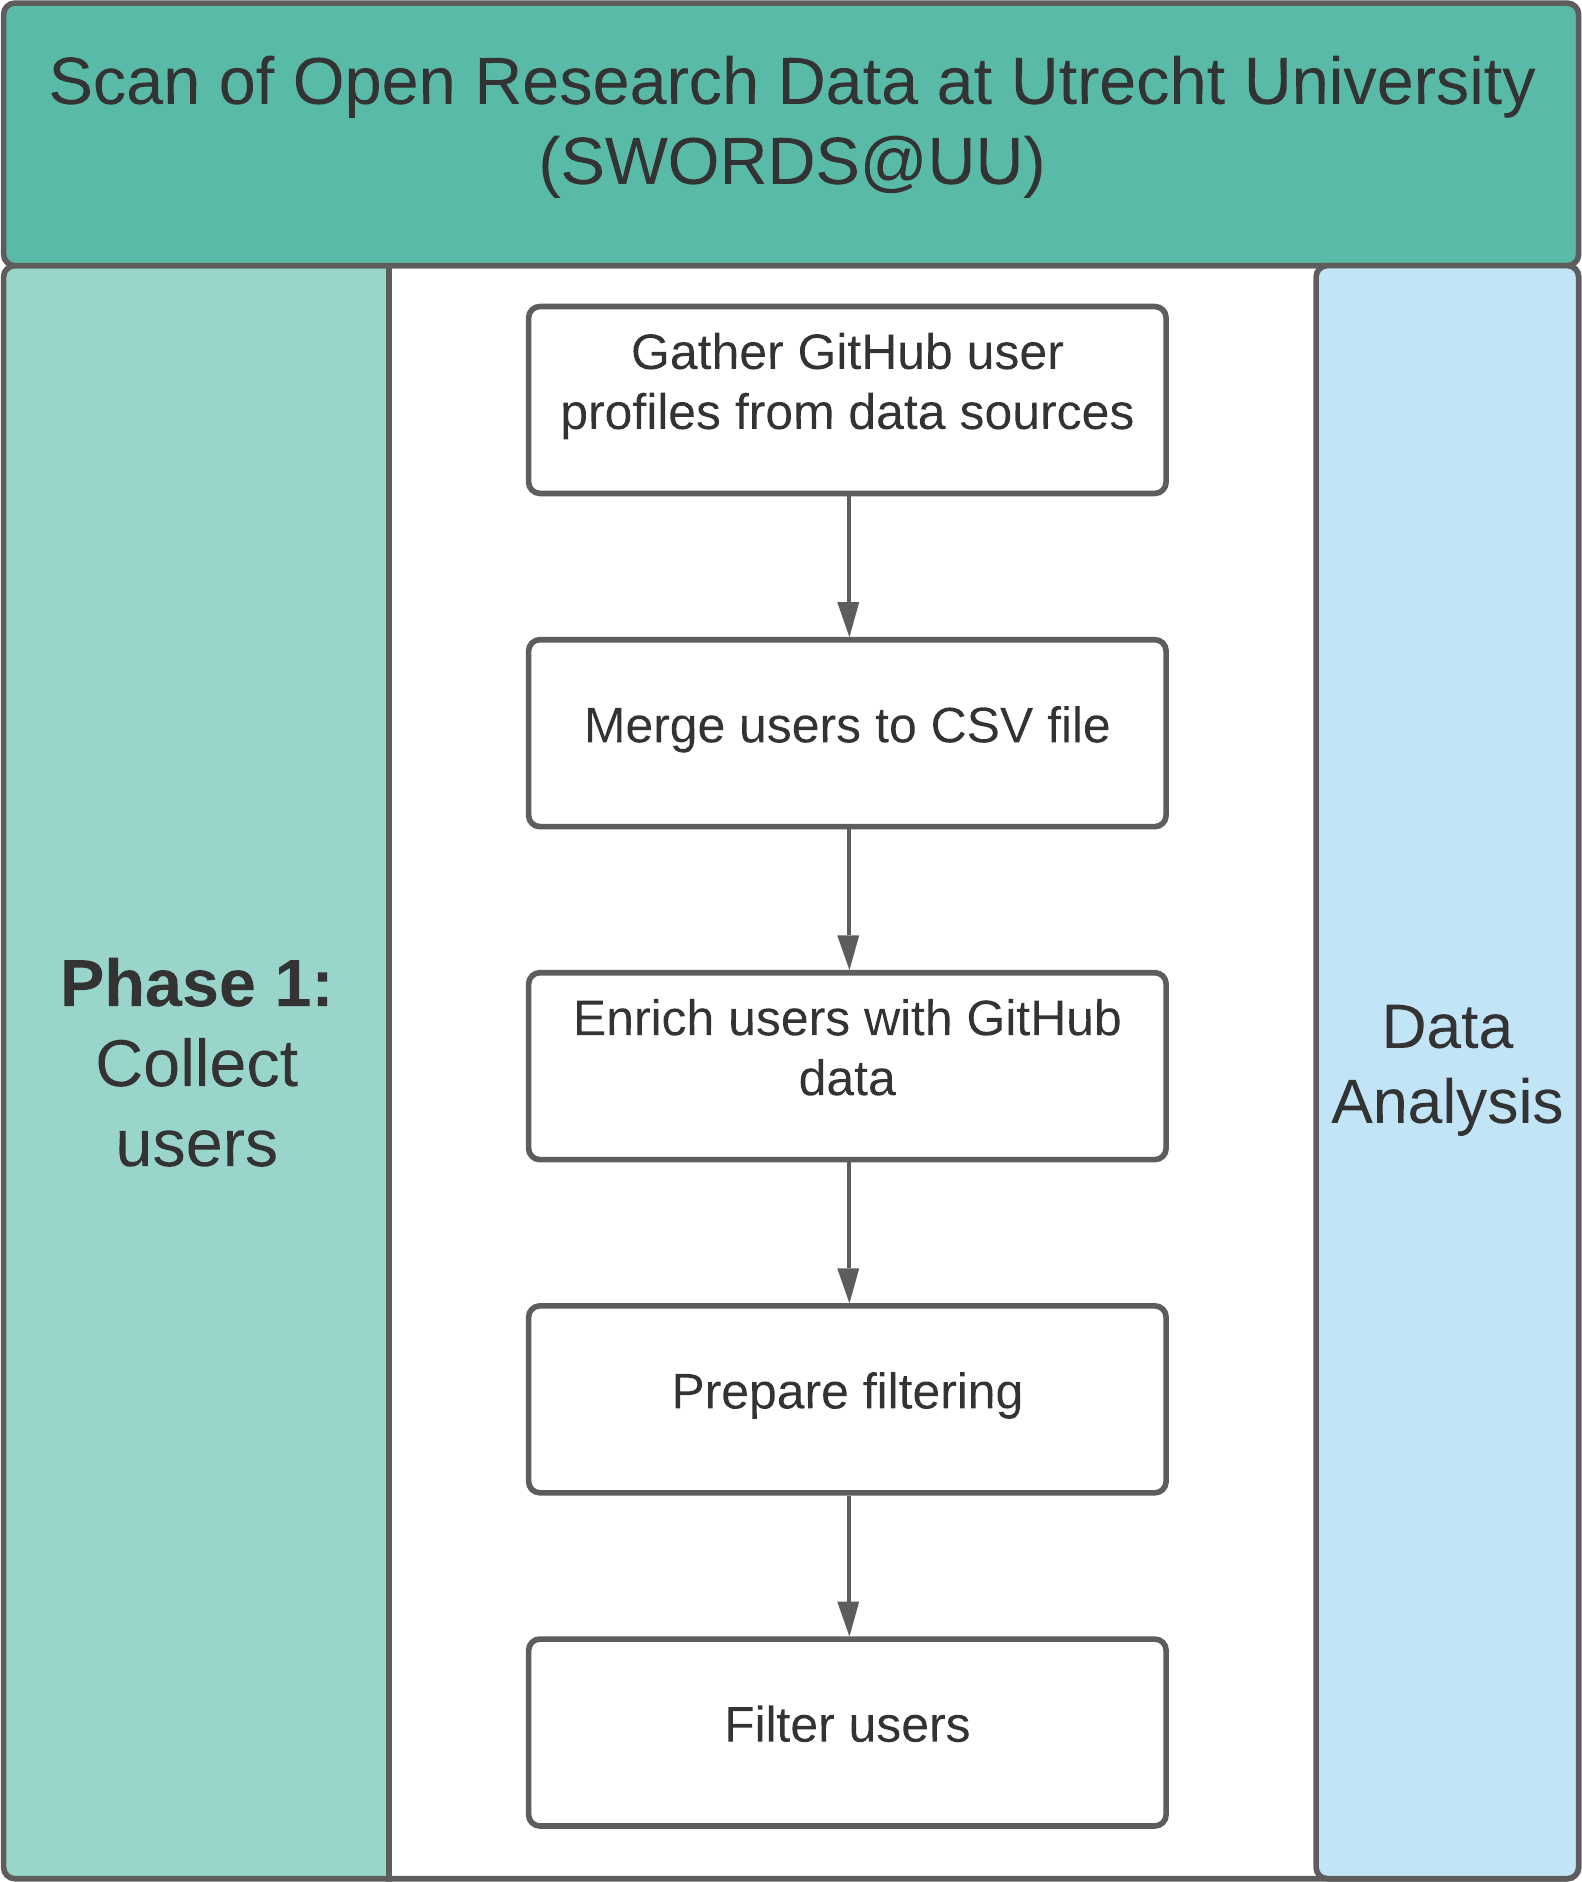
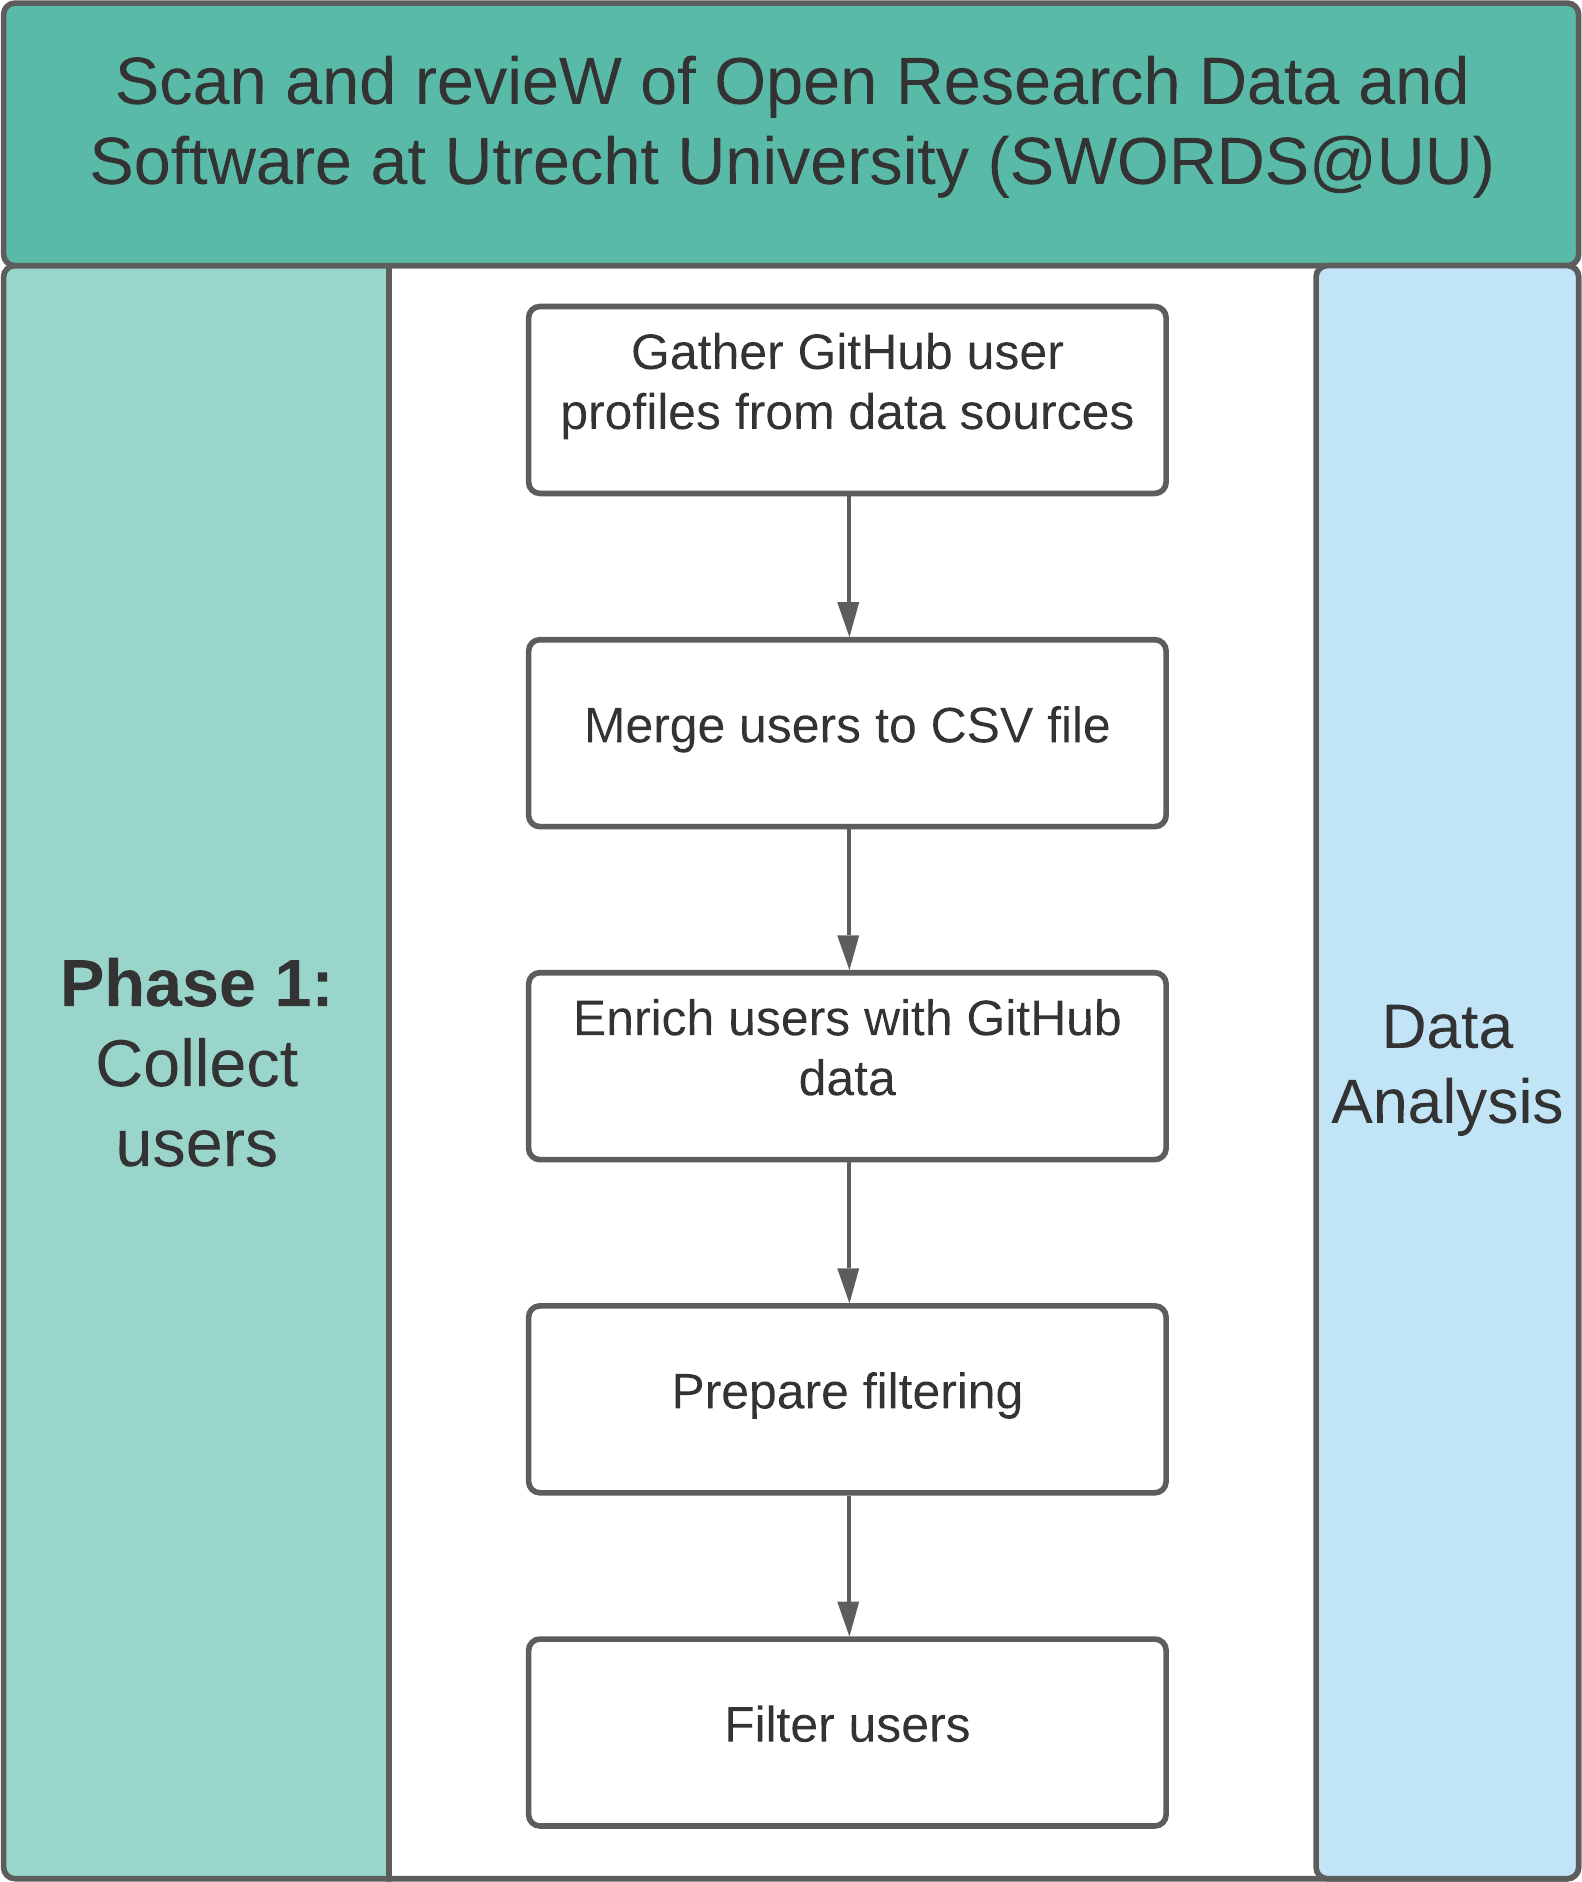
Update acronym

Changed region(s): [[0.031, 0.0308, 0.9602, 0.1233]]

diff --git a/README.md b/README.md
@@ -4,7 +4,7 @@
   - [Contact](#contact)
   - [Pipeline](#pipeline)
 
-This repository is the implementation for the Scan of Open Research Data at Utrecht University (SWORDS@UU). The project is split into 3 phases that correspond to the folder structure. The following hyperlinks lead to the detailed readme of each phase.
+This repository is the implementation for the Scan and revieW of Open Research Data and Software at Utrecht University (SWORDS@UU). The project is split into 3 phases that correspond to the folder structure. The following hyperlinks lead to the detailed readme of each phase.
 
 1. [User collection](collect_users/README.md)
 2. [Repository collection](collect_repositories/README.md)
@@ -20,4 +20,4 @@ For technical questions, you contact either [Keven Quach](https://github.com/keq
 
 ## Pipeline
 
-<img src="docs/Complete_pipeline.jpg" height="1500">
+<img src="docs/Complete_pipeline.png" height="1500">
